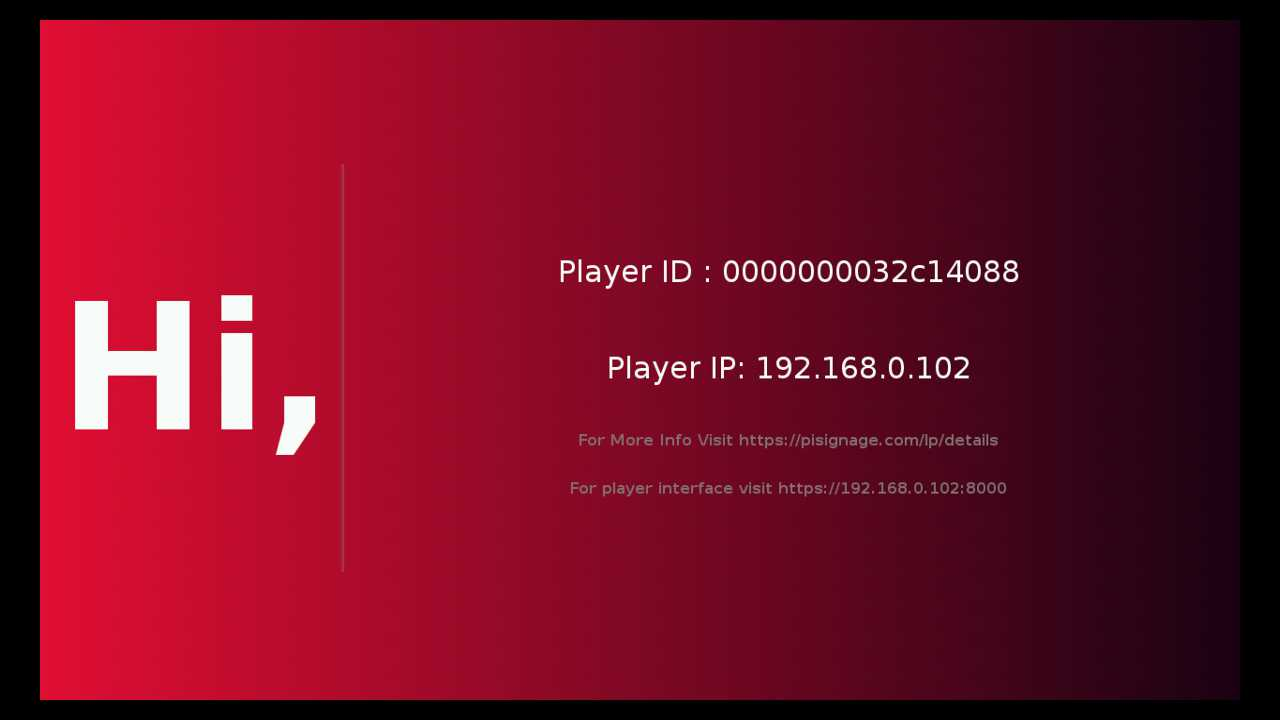
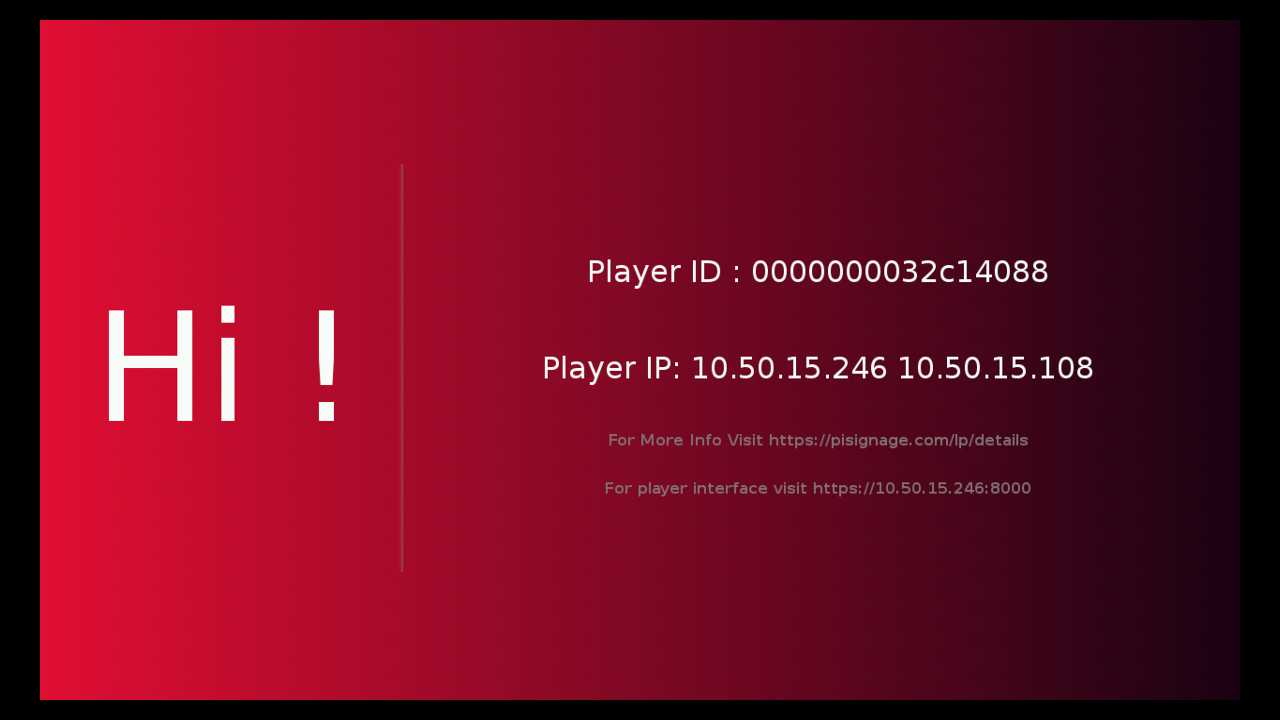
change font-family

diff --git a/examples/welcome-notice/red-gradient/welcome.html b/examples/welcome-notice/red-gradient/welcome.html
@@ -1,4 +1,3 @@
-
 <!-- myplayer object contains all the info on Player
 	myplayer = {
 		"cpuSerialNumber": player cpu number ,
@@ -28,7 +27,9 @@
             background: linear-gradient(to left, #1b0213 , #e80e35);
 
         	color:  #fff;
-        	font-family: Sans-serif;
+        	font-family:  sans-serif;
+
+        	position: relative;
         	
         	display: -webkit-flex;
 			display: flex;
@@ -48,11 +49,11 @@
 		.height-60{
 			height:  60%;
 		}
-		.width-25{
-			width: 25%;
+		.width-30{
+			width: 30%;
 		}
-		.width-75{
-			width: 75%;
+		.width-70{
+			width: 70%;
 		}
 		.full{
 			display: -webkit-flex;
@@ -67,6 +68,7 @@
 			border: 0px;
 			padding: 0px;
 			font-size: 10em;
+			position: relative;
 			box-shadow: -10px 0px 6px -10px #948682 inset;
 			display: -webkit-flex;
 			display: flex;
@@ -98,15 +100,20 @@
 </head>
 <body >
 	<div class="full width-100 height-60">
-		<div class="welcome-section width-25 height-100">
-			<h3>Hi,</h3>
+		<div class="welcome-section width-30 height-100">
+			<p>Hi !</p>
 		</div>
-		<div class="status-section width-75 height-100">
+		<div class="status-section width-70 height-100">
 			<p>Player ID : 0000000032c14088</p>
-			<p> Player IP: 192.168.0.102</p>
+			<p> Player IP: 
+                
+                	10.50.15.246
+                
+                	10.50.15.108
+                
+            </p>
 			<h3 class="info">For More Info Visit https://pisignage.com/lp/details</h3>
-			
-			<h3 class="info">For player interface visit https://192.168.0.102:8000</h3>
+			<h3 class="info">For player interface visit https://10.50.15.246:8000</h3>
 		</div>
 	</div>
 	<script>

diff --git a/examples/welcome-notice/light-gradient/welcome.html b/examples/welcome-notice/light-gradient/welcome.html
@@ -35,10 +35,7 @@
             background: linear-gradient(to left, rgba(222, 98, 98, 0.61) , #FFB88C);
 
         	color:  #fff;
-        	font-family: Sans-serif;
-        	
-            
-
+        	font-family: sans-serif;
 		}
 		.welcome-section{
 			display: -webkit-flex;
